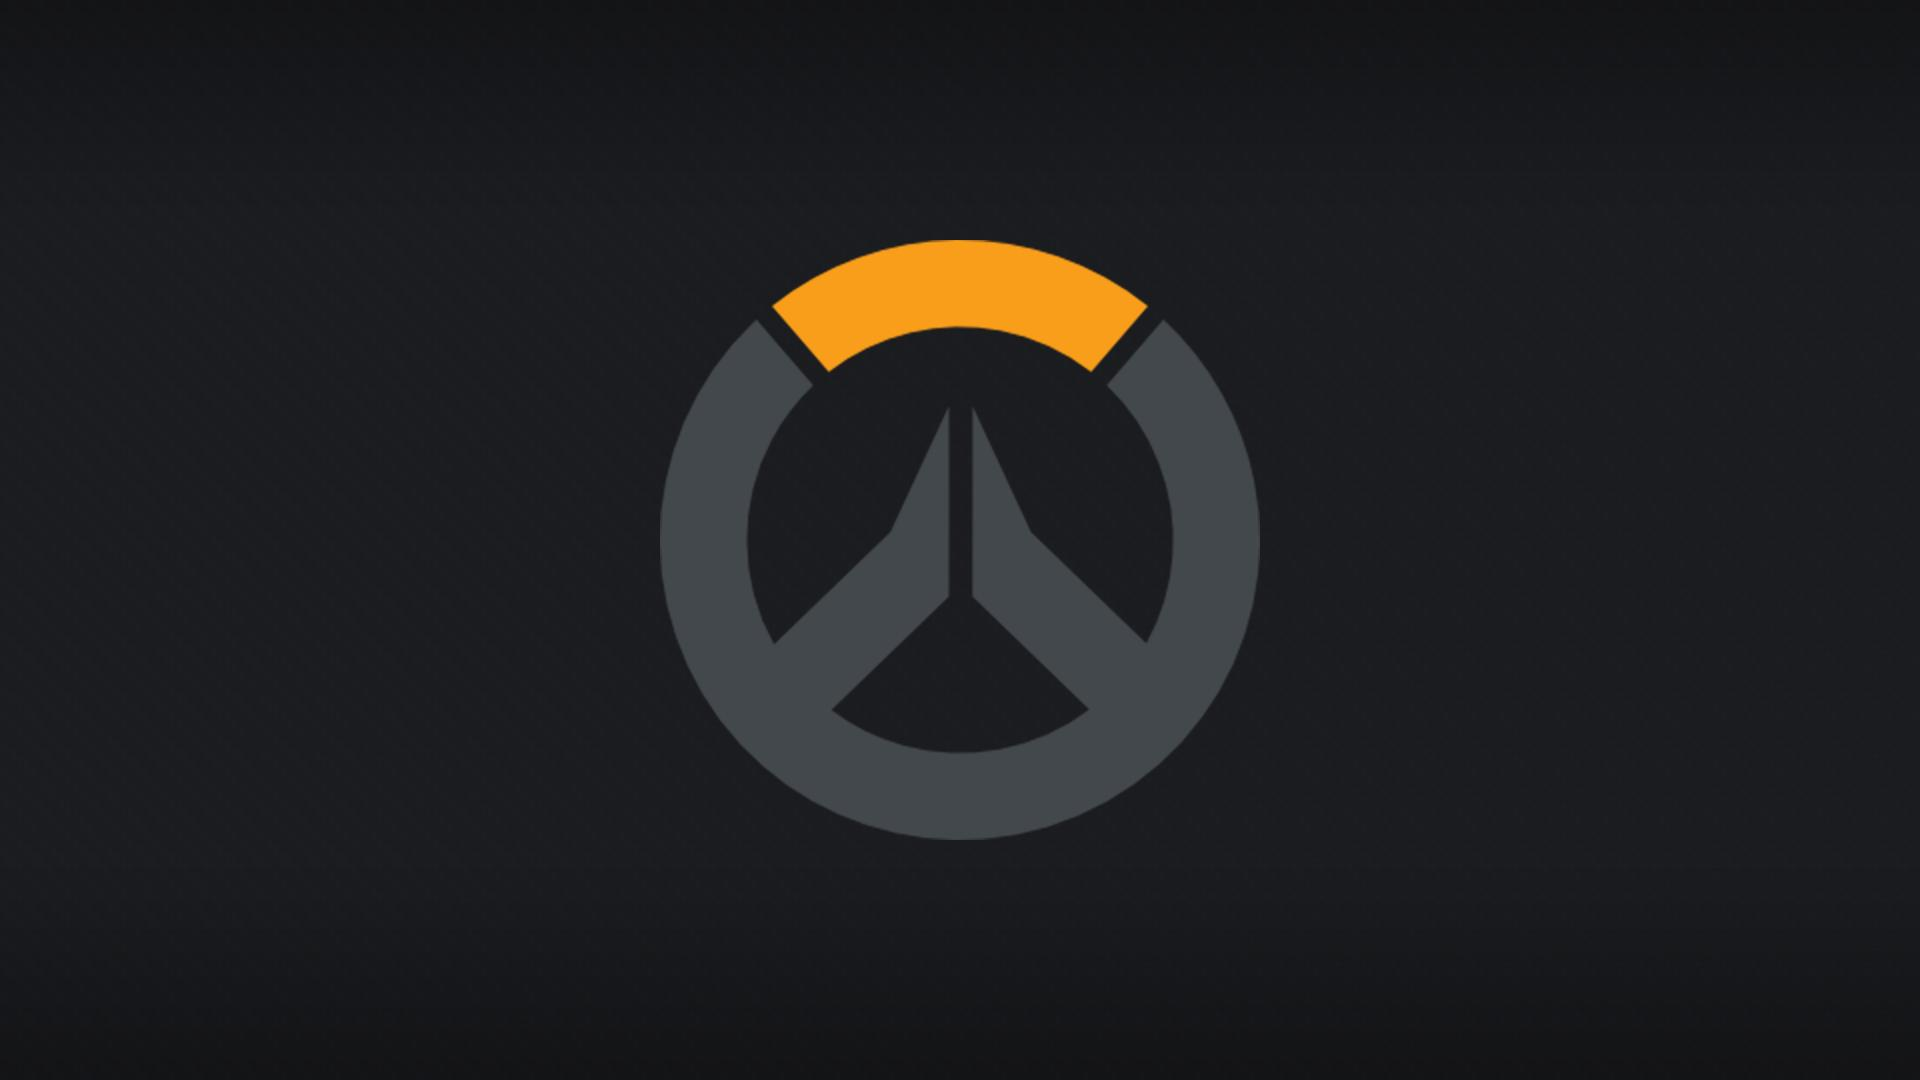
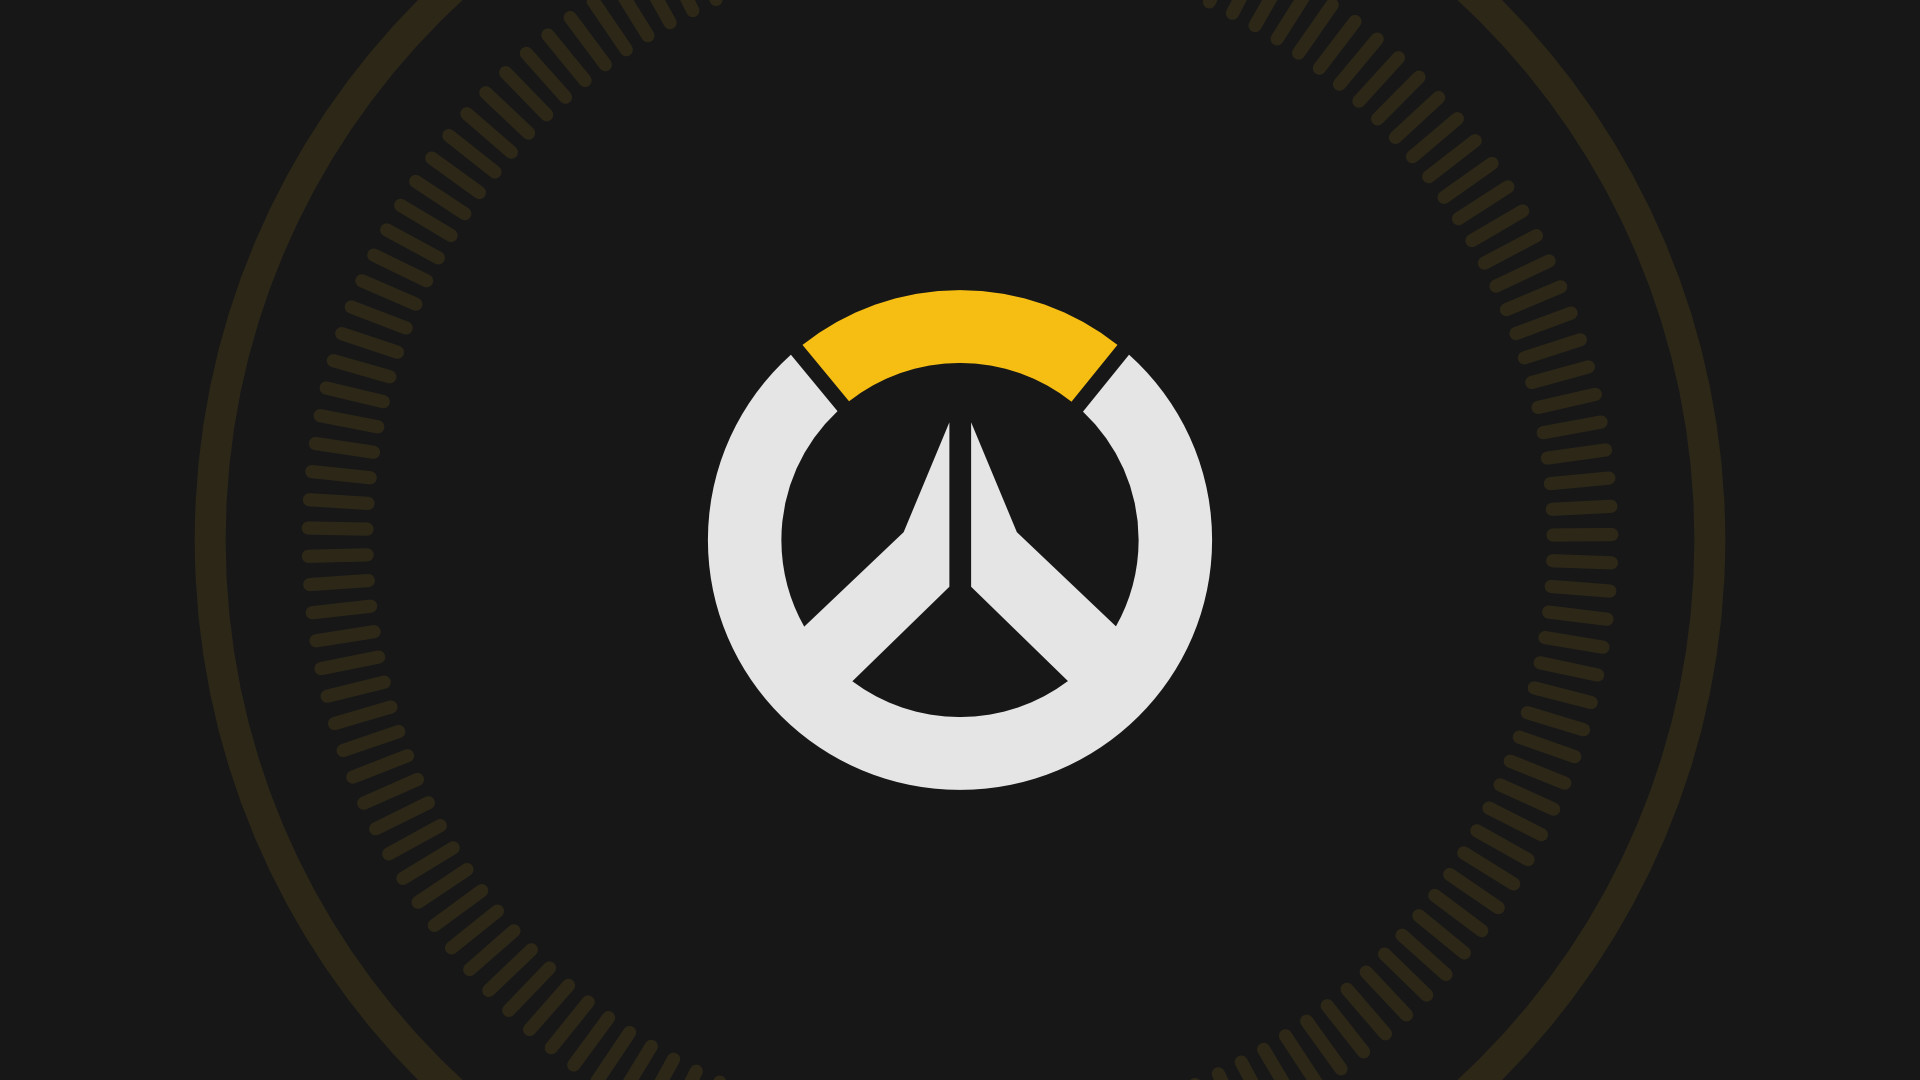
changed background and key spacing

diff --git a/style.css b/style.css
@@ -1,8 +1,11 @@
 html {
     font-size: 10px;
     background: url(overwatch.jpg) center;
+    background-position: center;  
+    background-repeat: no-repeat;
     background-size: cover;
-  }
+    background-attachment: fixed;
+} 
   
   body,html {
     margin: 0;
@@ -14,13 +17,13 @@ html {
     text-align: center;
     font-size: 35px;
     font-family: 'Permanent Marker', cursive;
-    color: #ffc600;
+    color: #ffbd07ee;
+    
   }
   
   .keys {
     display: flex;
     flex: 1;
-    min-height: 100vh;
     align-items: center;
     justify-content: center;
   }

diff --git a/index.html b/index.html
@@ -29,6 +29,8 @@
             <kbd>F</kbd>
             <span class="sound">Junkrat</span>
         </div>
+    </div>
+    <div class="keys">
         <div data-key="74" class="key">
             <kbd>J</kbd>
             <span class="sound">McCree</span>
